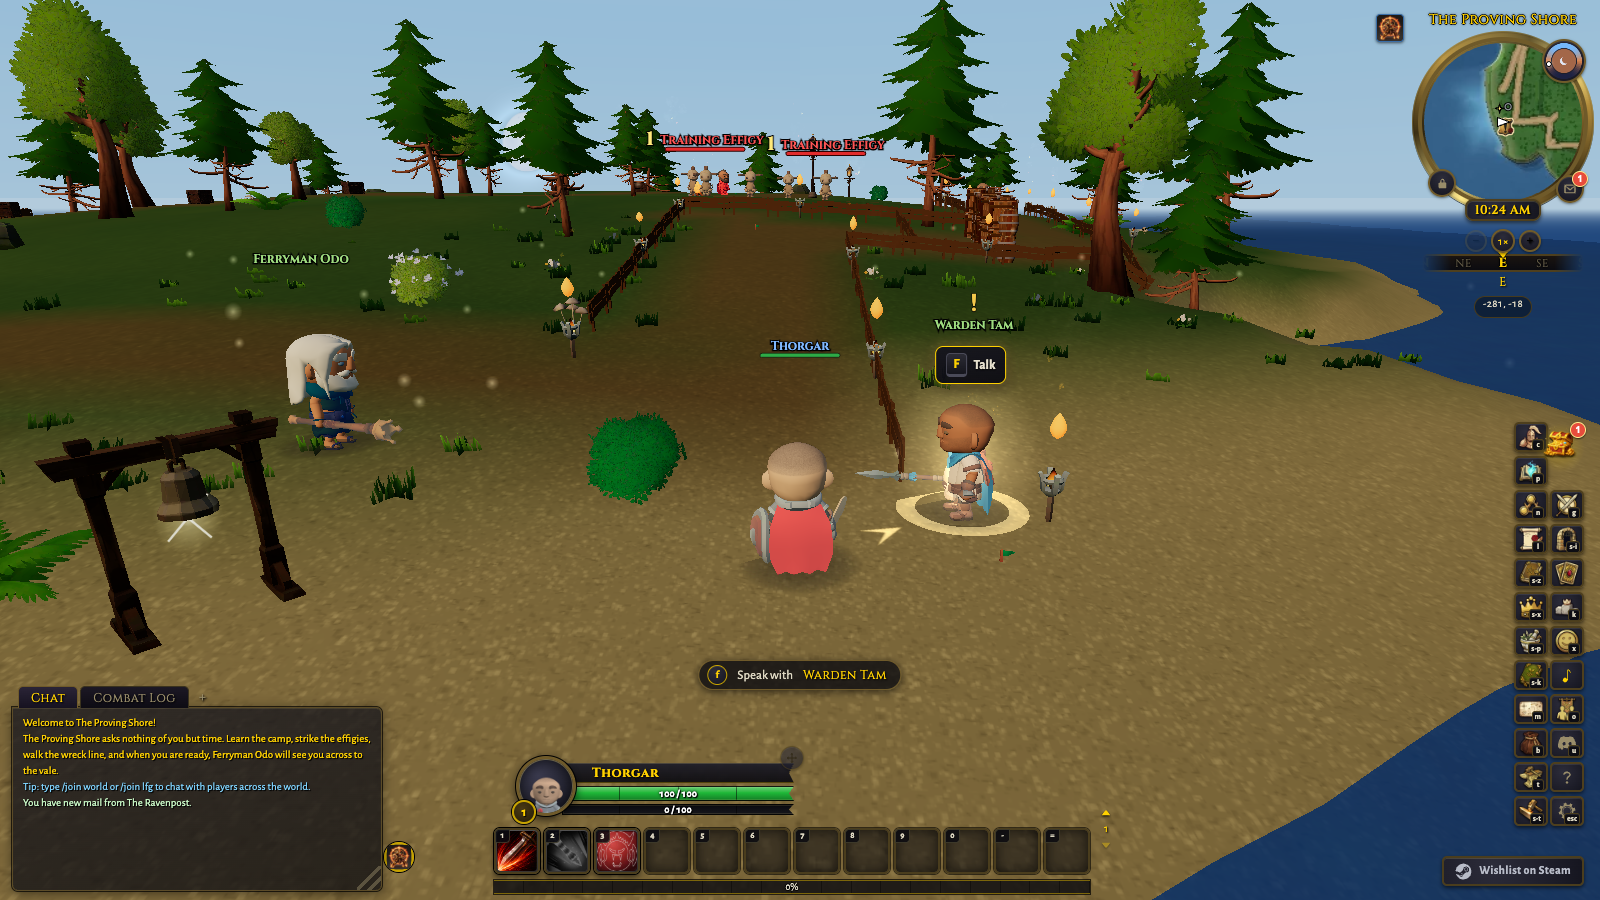
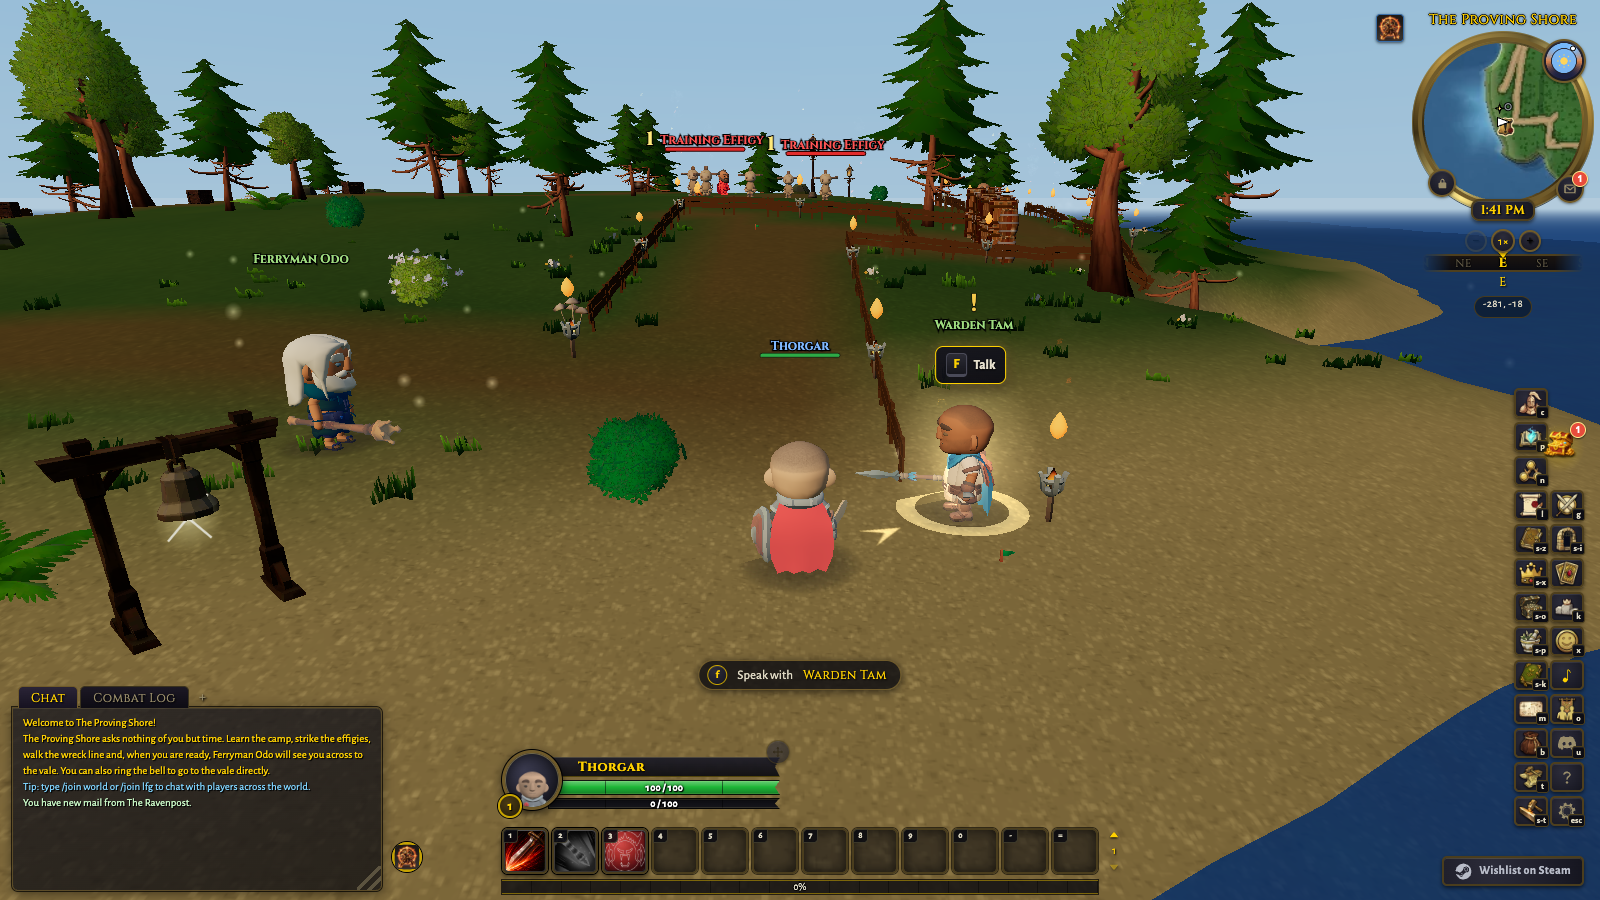
fix(hud): bracket the action bar with the stock unit frames and level the pager
Review round 2: the stock player and target frames now sit flush with
the action bar's outer edges (the pet cluster no longer widens the stack
past the rail, so the bar is screen-centred), with a 14px clearance to the
sockets, and an empty resource strip keeps the live strip's height so both
frames render identically. The bar pager anchors to the action bar it
lives in instead of assuming the XP rail sits inside its containing block,
which had floated it 22px above the sockets. Rail keycaps grow to 9px and
hang off the socket corner instead of covering the glyph.

diff --git a/src/styles/hud.css b/src/styles/hud.css
@@ -955,12 +955,10 @@
        .bar and .bar-text read the var, so a height drag thickens the bars at
        crisp text instead of distorting them through a transform. */
     --uf-bar-height: var(--player-frame-height, var(--bar-h-hp));
-    /* The stock seat holds the frame just LEFT of centre, so the target frame's
-       stock seat mirrors it on the right and the pair reads as one cluster over
-       the action bar. The percentage resolves against the stack, whose centre is
-       the screen centre, so auto on the left puts this frame's right edge exactly
-       half the pair gap short of it. */
-    margin: 0 calc(50% + var(--unit-frame-pair-gap) / 2) 8px auto;
+    /* The stock seat sits flush with the action bar's LEFT edge (the stack is
+       exactly one action rail wide), and the target frame's stock seat mirrors
+       it on the right edge, so the pair brackets the bar with open middle. */
+    margin: 0 auto var(--unit-frame-bar-gap) 0;
     display: flex;
     align-items: center;
     justify-content: center;
@@ -1315,7 +1313,7 @@
      spent about 52px of vertical space on what is one subject, and left the health
      strip reading as a satellite of the player frame rather than part of the pet UI.
      Side by side they measure ~294px (two 3-button groups) plus ~270px (portrait +
-     bars), which fits the 612px stack with room to spare.
+     bars), which fits the action-rail-wide stack with room to spare.
 
      The stack is bottom-anchored (#bottom-bar sits at bottom: 6px), so this grows it
      UPWARD: the action bars and the player frame keep their positions and the
@@ -1328,7 +1326,7 @@
     align-items: center;
     justify-content: flex-start;
     gap: 8px;
-    width: 612px;
+    width: var(--action-rail-w);
     margin: 0 auto;
     padding-left: var(--unit-frame-content-inset);
   }
@@ -1379,7 +1377,7 @@
      default; a persisted position writes inline left/top that outranks this, and
      resetting the layout clears those and lands back here. */
   #target-frame {
-    left: calc(50% + var(--unit-frame-pair-gap) / 2);
+    left: calc(50% + var(--action-rail-w) / 2 - var(--target-frame-width, var(--unit-frame-w)));
     top: calc(100% - var(--unit-frame-seat-offset));
     display: none;
     z-index: 6;
@@ -4094,7 +4092,7 @@
   .bar-toggle {
     position: absolute;
     right: -28px;
-    bottom: calc(var(--xp-rail-h) + var(--socket-row-gap) + var(--spacing-2xs));
+    bottom: 0;
     width: 24px;
     height: var(--socket-size);
   }
@@ -4499,13 +4497,13 @@
   }
   .micro-btn .keybind {
     position: absolute;
-    bottom: -1px;
-    right: 2px;
-    min-width: 12px;
-    height: 12px;
+    bottom: -3px;
+    right: -3px;
+    min-width: 13px;
+    height: 13px;
     padding: 0 2px;
-    font-size: 8px;
-    line-height: 10px;
+    font-size: 9px;
+    line-height: 11px;
   }
   /* Micro-menu count badge (unspent talent points today). Geometry only: the look
      is the .ui-badge / .ui-badge--corner primitive. The corner default overhangs a

diff --git a/tests/client_shell.test.ts b/tests/client_shell.test.ts
@@ -1729,9 +1729,7 @@ describe('client HTML shell', () => {
     expect(hudCss).toContain('body.show-actionbar3 #swingbar-offhand {\n    bottom: 272px;\n  }');
     // The page control hangs beside the action row above the XP rail.
     expect(hudCss).toContain('right: -28px;');
-    expect(hudCss).toContain(
-      'bottom: calc(var(--xp-rail-h) + var(--socket-row-gap) + var(--spacing-2xs));',
-    );
+    expect(hudCss).toContain('bottom: 0;');
     // Primitive class pins prevent later host rules from silently replacing shared socket chrome.
     for (const className of [
       'action-btn ui-socket empty',
@@ -3596,18 +3594,22 @@ describe('the stock unit-frame seats sit side by side above the action bar', () 
   const tokensCss = readFileSync(new URL('../src/styles/tokens.css', import.meta.url), 'utf8');
 
   it('declares the seat tokens the two rules share', () => {
-    expect(tokensCss).toContain('--unit-frame-pair-gap: 12px;');
+    expect(tokensCss).toContain('--unit-frame-bar-gap: 14px;');
     expect(tokensCss).toContain('--unit-frame-seat-offset: calc(');
-    expect(tokensCss).toContain('var(--socket-size) +\n      78px');
+    expect(tokensCss).toContain(
+      'var(--socket-size) +\n      var(--unit-frame-bar-gap) +\n      70px',
+    );
   });
 
   it('holds the docked player frame just left of centre', () => {
-    expect(hudCss).toContain('margin: 0 calc(50% + var(--unit-frame-pair-gap) / 2) 8px auto;');
+    expect(hudCss).toContain('margin: 0 auto var(--unit-frame-bar-gap) 0;');
     expect(hudCss).not.toContain('margin: 0 auto 8px;');
   });
 
   it('mirrors the target frame right of centre and level with it', () => {
-    expect(hudCss).toContain('left: calc(50% + var(--unit-frame-pair-gap) / 2);');
+    expect(hudCss).toContain(
+      'left: calc(50% + var(--action-rail-w) / 2 - var(--target-frame-width, var(--unit-frame-w)));',
+    );
     expect(hudCss).toContain('top: calc(100% - var(--unit-frame-seat-offset));');
     expect(hudCss).not.toContain('#target-frame {\n    left: 12px;\n    top: 12px;');
   });

diff --git a/src/styles/tokens.css b/src/styles/tokens.css
@@ -796,7 +796,7 @@
     --bar-h: 15px;
     --bar-h-hp: 16px;
     --bar-h-res: 11px;
-    --bar-h-res-empty: 7px;
+    --bar-h-res-empty: var(--bar-h-res);
     --bar-notch: 5px;
     --castbar-w: 300px;
     --castbar-h: 20px;
@@ -1102,18 +1102,18 @@
     );
 
     /* unit frames */
-    /* Gap between the two stock unit frames, which mirror each other around the
-       screen centre directly above the action bar. */
-    --unit-frame-pair-gap: 12px;
+    /* Clearance between the stock unit frames and the action bar under them. */
+    --unit-frame-bar-gap: 14px;
     /* Distance from the bottom of #ui to the TOP of that stock seat: the 6px
-       bottom-bar inset, the XP rail, the action row and its gap, then the docked
-       player frame's own 8px margin and 64px height, so the stock target frame
+       bottom-bar inset, the XP rail, the action row and its gap, the bar gap,
+       then the docked player frame's 64px height, so the stock target frame
        lands level with the player frame. */
     --unit-frame-seat-offset: calc(
       var(--xp-rail-h) +
       var(--socket-row-gap) +
       var(--socket-size) +
-      78px
+      var(--unit-frame-bar-gap) +
+      70px
     );
   }
 

diff --git a/tests/v027_port_restorations.test.ts b/tests/v027_port_restorations.test.ts
@@ -154,10 +154,13 @@ describe('selfHotPctMax effect (effect_dispatch)', () => {
 
 describe('offhand surfacing (paperdoll, player card, chat readout)', () => {
   it('shows the offhand cell on the character sheet paperdoll', async () => {
-    // Showcase redesign: the offhand moved to the LEFT column (under Main Hand) to
-    // balance the paperdoll 6/6. It is still surfaced on the sheet, now on the left.
-    const { PAPERDOLL_LEFT_SLOTS, PAPERDOLL_RIGHT_SLOTS } = await import('../src/ui/char_view');
-    expect(PAPERDOLL_LEFT_SLOTS).toContain('offhand');
+    // Showcase redesign: the offhand sits in the weapons row under the model stage
+    // beside the main hand. It is still surfaced on the sheet, in neither column.
+    const { PAPERDOLL_LEFT_SLOTS, PAPERDOLL_RIGHT_SLOTS, PAPERDOLL_WEAPON_SLOTS } = await import(
+      '../src/ui/char_view'
+    );
+    expect(PAPERDOLL_WEAPON_SLOTS).toContain('offhand');
+    expect(PAPERDOLL_LEFT_SLOTS).not.toContain('offhand');
     expect(PAPERDOLL_RIGHT_SLOTS).not.toContain('offhand');
   });
 
